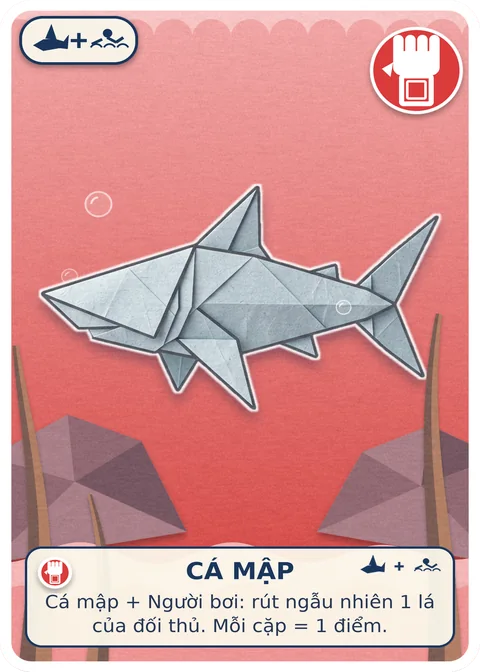
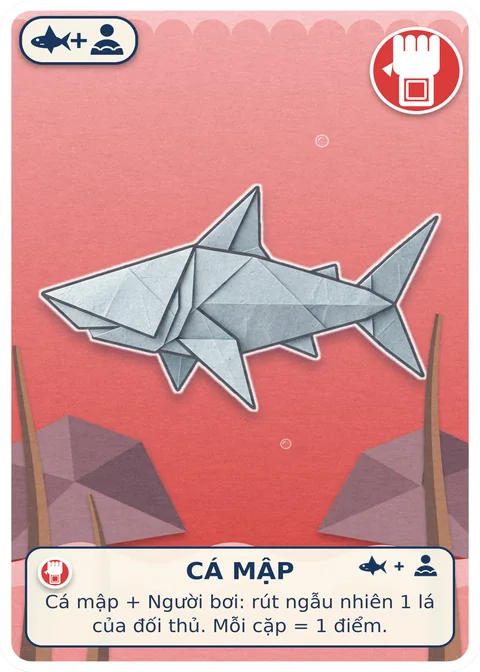
Bien Muoi: ve lai hinh Nguoi boi / Ca map trong ky hieu di doi
Claude-Session: https://claude.ai/code/session_01C6iMuiguRnDXRyuKCCZydP

diff --git a/sw.js b/sw.js
@@ -1,5 +1,5 @@
 /* Service worker Phi Board Games: luôn lấy bản mới từ mạng, mất mạng thì dùng bản đã lưu */
-const C='pbg-v11';
+const C='pbg-v12';
 self.addEventListener('install',e=>self.skipWaiting());
 self.addEventListener('activate',e=>e.waitUntil(self.clients.claim()));
 self.addEventListener('fetch',e=>{ const r=e.request; if(r.method!=='GET'||new URL(r.url).origin!==location.origin) return;
